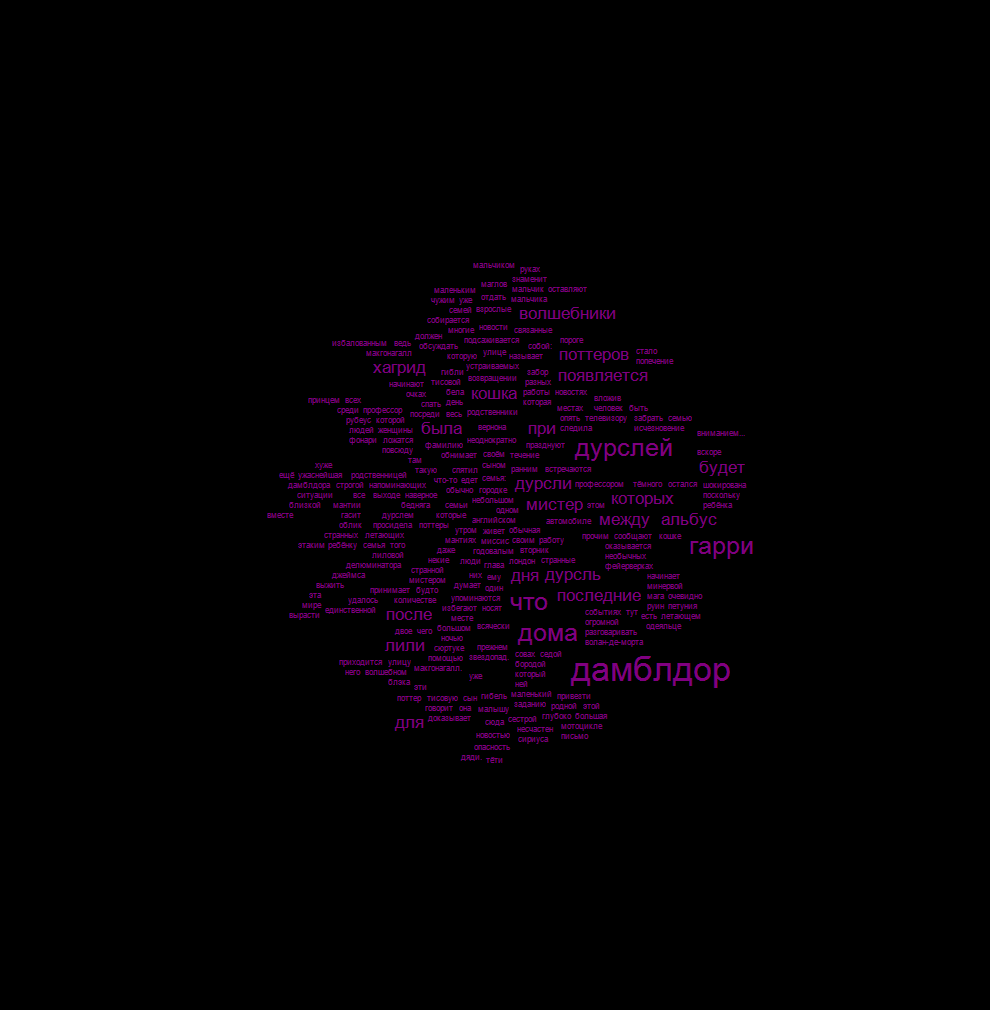
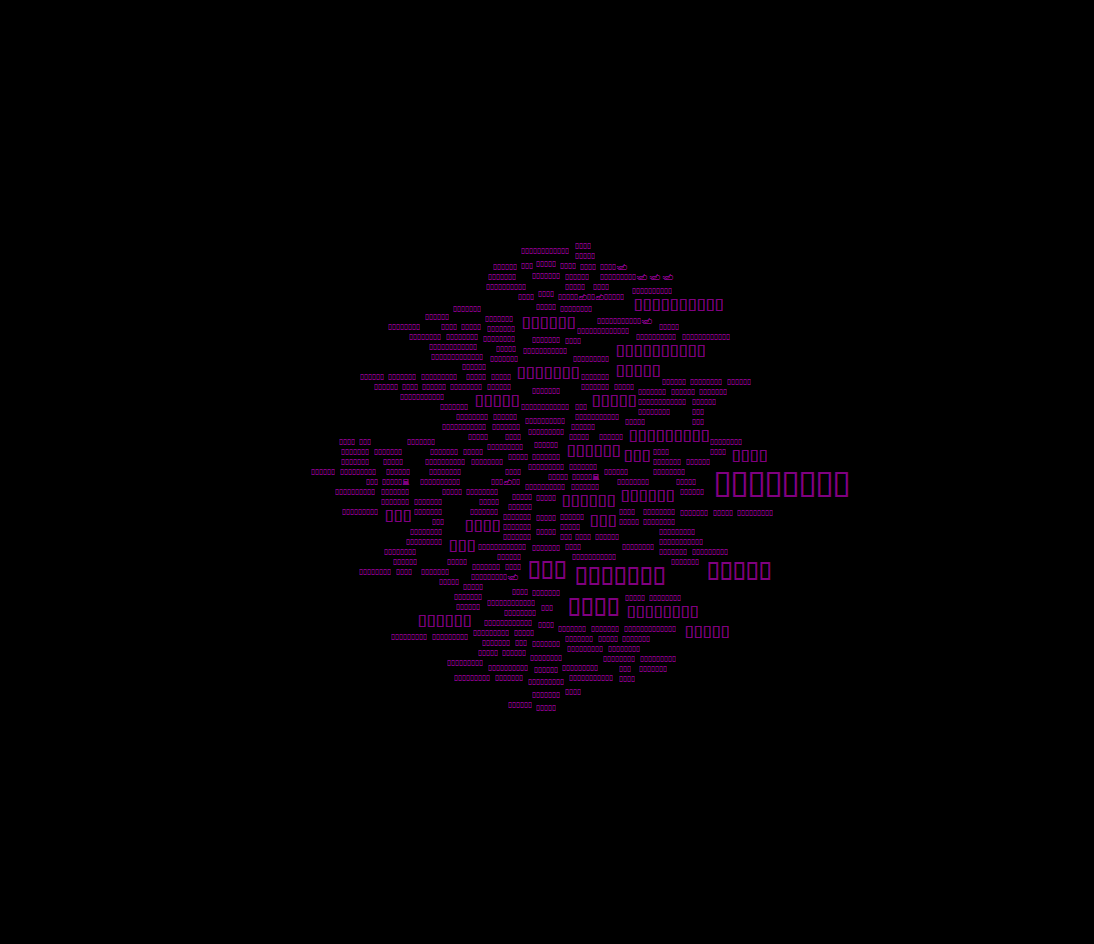
Added error and Result to FontProvider

Changed region(s): [[0.2727, 0.2458, 0.7879, 0.768]]

diff --git a/TagsCloudContainer/WorkWithWords/WordGenerator.cs b/TagsCloudContainer/WorkWithWords/WordGenerator.cs
@@ -7,25 +7,30 @@ namespace TagsCloudContainer.WorkWithWords
     {
         private Settings _settings;
         private CircularCloudLayouter _layouter;
+        private FontProvider _fontProvider;
         
-        public WordGenerator(CircularCloudLayouter layouter, Settings settings)
+        public WordGenerator(CircularCloudLayouter layouter, 
+            Settings settings, FontProvider fontProvider)
         {
             _layouter = layouter;
             _settings = settings;
+            _fontProvider = fontProvider;
         }
         
-        public List<Rectangle> GenerateRectanglesByWords(List<Word> words)
+        public Result<List<Rectangle>> GenerateRectanglesByWords(List<Word> words)
         {
             var rectangles = new List<Rectangle>();
+            var settingsFont = _fontProvider.TryGetFont(_settings.WordFontName, _settings.WordFontSize);
+            if (!settingsFont.IsSuccess)
+                return Result.Fail<List<Rectangle>>(settingsFont.Error);
             foreach (var word in words)
             {
-                //Проверка на существуемость
-                using var font = new Font(_settings.WordFontName, word.Size);
+                using var font = new Font(settingsFont.Value.FontFamily, word.Size);
                 var size = MeasureWord(word.Value, font);
                 rectangles.Add(_layouter.PutNextRectangle(size));
             }
 
-            return rectangles;
+            return rectangles.Ok();
         }
 
         private static Size MeasureWord(string word, Font font)

diff --git a/TagsCloudContainer/Visualisators/RectangleVisualisator.cs b/TagsCloudContainer/Visualisators/RectangleVisualisator.cs
@@ -25,10 +25,12 @@ namespace TagsCloudContainer.Visualisators
             return new Bitmap(width * 2, height * 2);
         }
 
-        public Bitmap Paint(List<Word> words)
+        public Result<Bitmap> Paint(List<Word> words)
         {
             var rectangles = _wordGenerator.GenerateRectanglesByWords(words);
-            var bitmap = GenerateBitmap(rectangles);
+            if (!rectangles.IsSuccess)
+                return Result.Fail<Bitmap>(rectangles.Error);
+            var bitmap = GenerateBitmap(rectangles.Value);
             var shiftToBitmapCenter = new Size(bitmap.Width / 2, bitmap.Height / 2);
 
             using var graphics = Graphics.FromImage(bitmap);
@@ -37,13 +39,13 @@ namespace TagsCloudContainer.Visualisators
             using var pen = new Pen(_settings.WordColor);
             foreach (var word in words)
             {
-                var rectangleOnMap = CreateRectangleOnMap(rectangles[count], shiftToBitmapCenter);
+                var rectangleOnMap = CreateRectangleOnMap(rectangles.Value[count], shiftToBitmapCenter);
                 using var font = new Font(_settings.WordFontName, word.Size);
                 graphics.DrawString(word.Value, font, pen.Brush, rectangleOnMap.Location);
                 count++;
             }
 
-            return bitmap;
+            return bitmap.Ok();
         }
 
         private Rectangle CreateRectangleOnMap(Rectangle rectangle, Size shiftToBitmapCenter)

diff --git a/TagsCloudContainer/Application/ConsoleApp.cs b/TagsCloudContainer/Application/ConsoleApp.cs
@@ -21,15 +21,25 @@ namespace TagsCloudContainer.Application
             _visualisator = visualisator;
         }
 
-        public void Run()
+        public Result<string> Run()
         {
             var text = GetText(_settings.FileName);
+            if (!text.IsSuccess)
+                return Result.Fail<string>(text.Error);
+            
             var boringText = GetText(_settings.BoringWordsFileName);
-            var words = _handler.ProcessWords(text, boringText);
+            if (!boringText.IsSuccess)
+                return Result.Fail<string>(boringText.Error);
+            
+            var words = _handler.ProcessWords(text.Value, boringText.Value);
             var bitmap = _visualisator.Paint(words);
+            if (!bitmap.IsSuccess)
+                return Result.Fail<string>(bitmap.Error);
 
             var projectDirectory = Directory.GetParent(Environment.CurrentDirectory).Parent.Parent.FullName;
-            bitmap.Save(projectDirectory + "\\Results", "Rectangles", ImageFormat.Png);
+            bitmap.Value.Save(projectDirectory + "\\Results", "Rectangles", ImageFormat.Png);
+            
+            return $"{projectDirectory}\\Results\\Rectangles".Ok<string>();
         }
 
         private Result<string> GetText(string fileName)

diff --git a/TagsCloudContainer/FontProvider.cs b/TagsCloudContainer/FontProvider.cs
@@ -1,6 +1,17 @@
-namespace TagsCloudContainer;
+using System.Drawing;
+
+namespace TagsCloudContainer;
 
 public class FontProvider
 {
-    
+    public Result<Font> TryGetFont(string fontName, float fontSize)
+    {
+        var font = new Font(fontName, fontSize);
+        
+        //Проверка на доступность имени
+        //Если фонт не может получить шрифт по имени, то он ставит дефолтный   
+        return font.Name != fontName 
+            ? Result.Fail<Font>($"No font with this name found: {fontName}")
+            : font.Ok();
+    }
 }

diff --git a/TagsCloudContainer/Result.cs b/TagsCloudContainer/Result.cs
@@ -58,6 +58,13 @@ public static class Result
             : Fail<TOutput>(input.Error);
     }
     
+    public static Result<T> OnFail<T>(this Result<T> input, Action<string> continuation)
+    {
+        if (!input.IsSuccess)
+            continuation(input.Error);
+        return input;
+    }
+    
     public static Result<T> ReplaceError<T>(this Result<T> input, Func<string, string> error)
     {
         return input.IsSuccess

diff --git a/TagsCloudContainer/Container/Container.cs b/TagsCloudContainer/Container/Container.cs
@@ -30,6 +30,7 @@ namespace TagsCloudContainer.Container
             builder.RegisterType<RectangleVisualisator>().As<IVisualisator>();
             builder.RegisterType<ConsoleApp>().As<IApp>();
             builder.RegisterType<WordGenerator>().AsSelf();
+            builder.RegisterType<FontProvider>().AsSelf();
 
             return builder.Build();
         }

diff --git a/TagsCloudContainer/Program.cs b/TagsCloudContainer/Program.cs
@@ -11,7 +11,7 @@ namespace TagsCloudContainer
             var options = Parser.Default.ParseArguments<Options>(args).Value;
             var container = Container.Container.SetDiBuilder(options);
             var app = container.Resolve<IApp>();
-            app.Run();
+            app.Run().OnFail(Console.WriteLine);
         }
     }
 }

diff --git a/TagsCloudContainer/Visualisators/IVisualisator.cs b/TagsCloudContainer/Visualisators/IVisualisator.cs
@@ -5,6 +5,6 @@ namespace TagsCloudContainer.Visualisators
 {
     public interface IVisualisator
     {
-        public Bitmap Paint(List<Word> words);
+        public Result<Bitmap> Paint(List<Word> words);
     }
 }

diff --git a/TagsCloudContainer/Application/IApp.cs b/TagsCloudContainer/Application/IApp.cs
@@ -2,6 +2,6 @@
 {
     public interface IApp
     {
-        public void Run();
+        public Result<string> Run();
     }
 }
